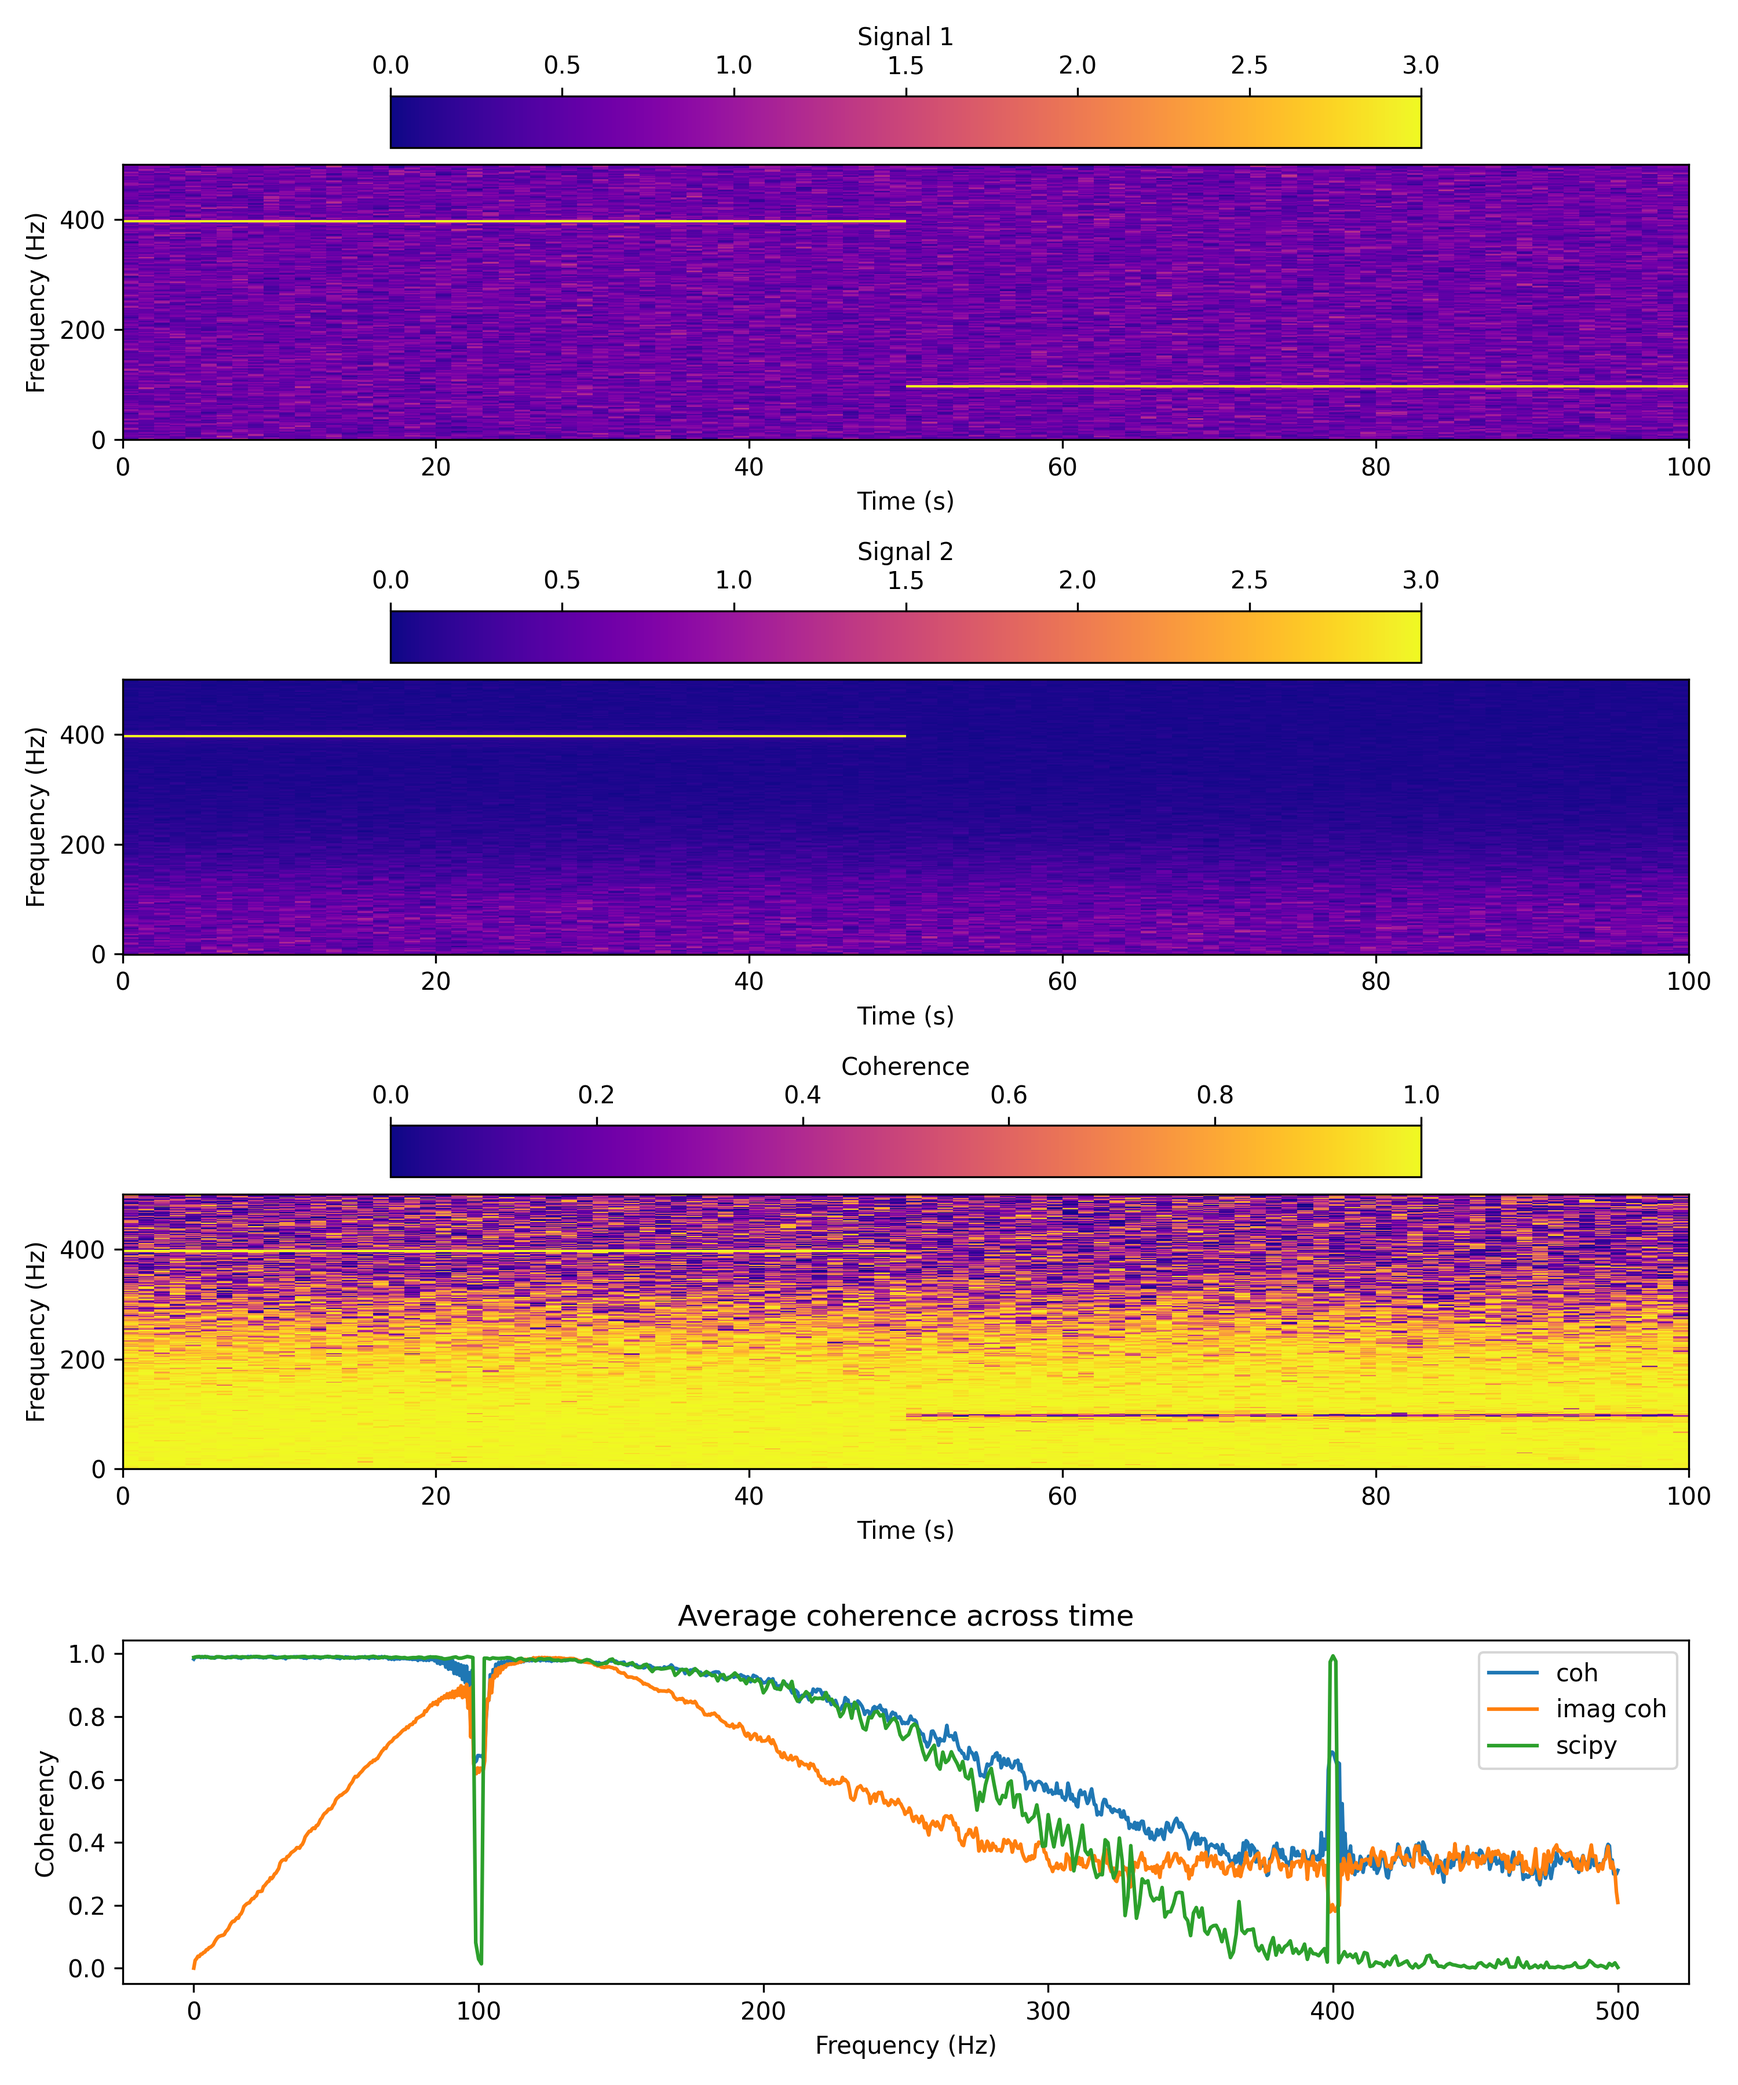
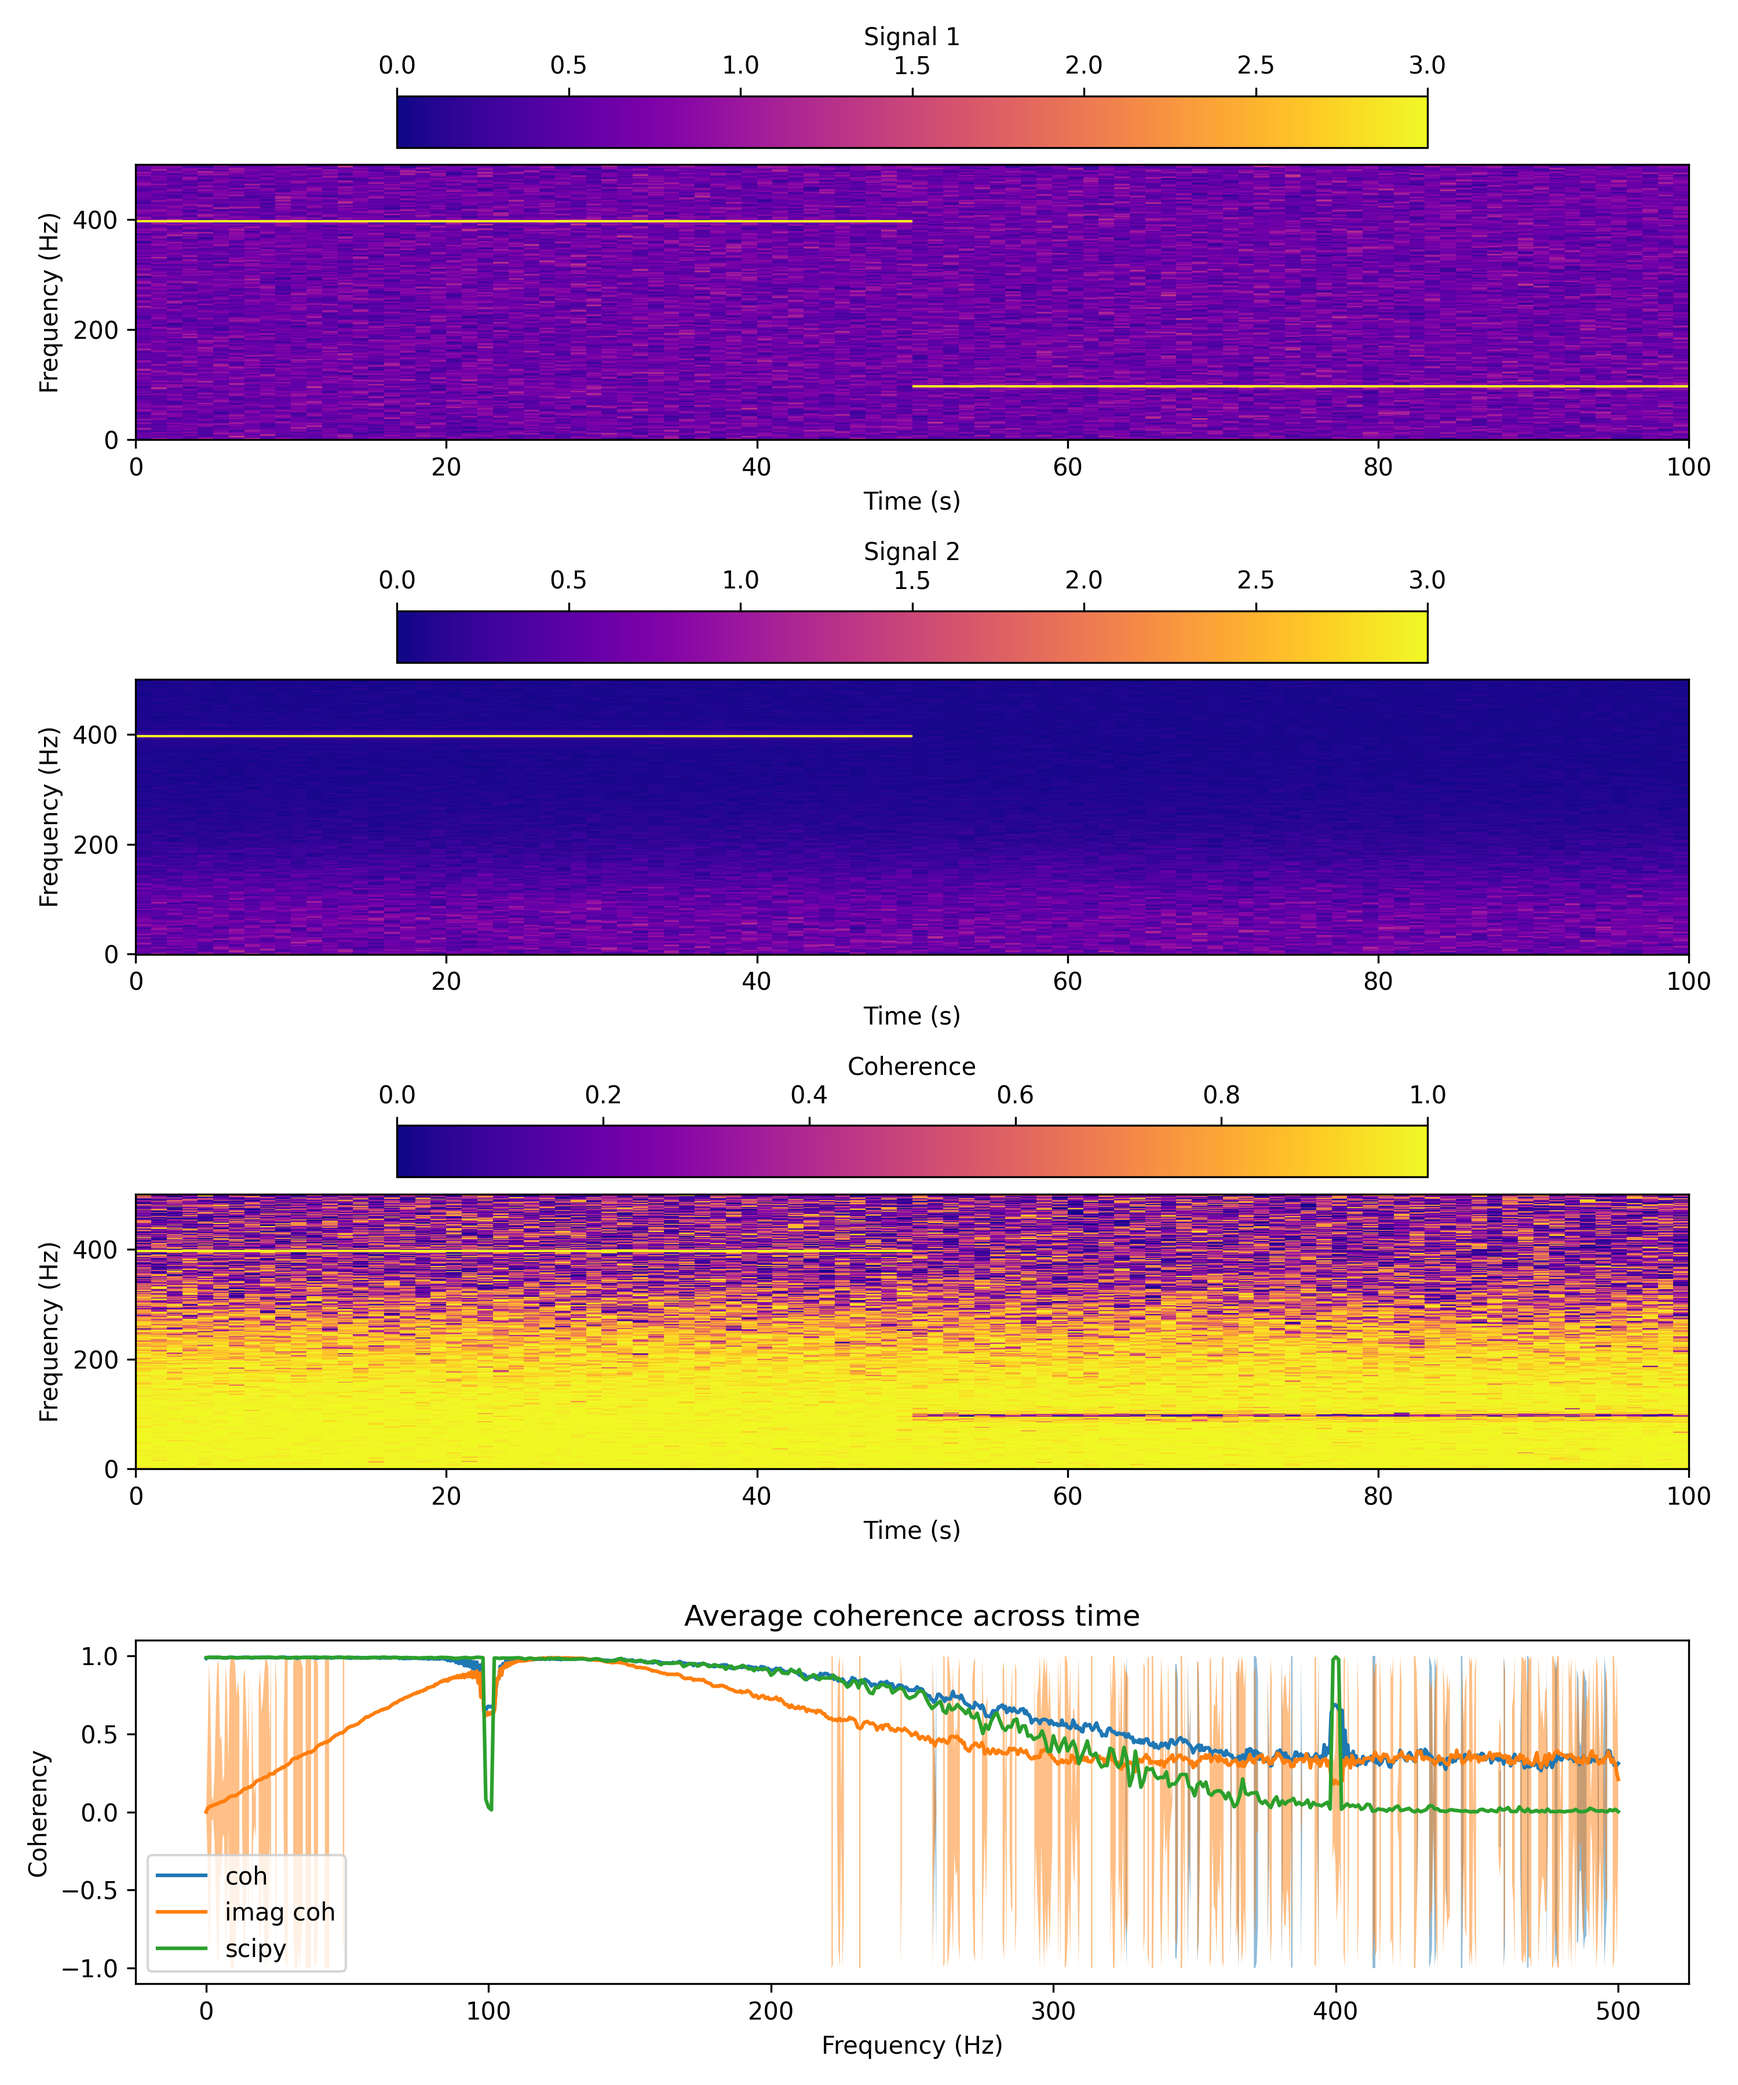
trying and failing to add error bars

diff --git a/aopy/analysis/base.py b/aopy/analysis/base.py
@@ -1256,7 +1256,7 @@ def interp_nans(x):
     return x
 
 def calc_mt_tfcoh(data, ch, n, p, k, fs, step, fk=None, pad=2, ref=False, imaginary=False, 
-                dtype='float64', workers=None):
+                dtype='float64', errorbars=False, pval=0.05, workers=None):
     '''
     Computes moving window time-frequency coherence averaged across trials between selected channels.
     This is loosely based on pesaran lab code, modified to be more compatible with :func:`~aopy.analysis.calc_mt_tfr`.
@@ -1299,6 +1299,9 @@ def calc_mt_tfcoh(data, ch, n, p, k, fs, step, fk=None, pad=2, ref=False, imagin
             Default is False.
         imaginary (bool, optional): if True, compute imaginary coherence.
         dtype (str, optional): dtype of the output. Default 'float64'
+        errorbars (bool, optional): if True, compute errorbars for coherence using jackknife method.
+            Default False.
+        pval (float, optional): p-value for errorbars. Default 0.05.
         workers (int, optional): Number of workers argument to pass to scipy.fft.fft. 
             Default None. 
                        
@@ -1427,7 +1430,8 @@ def calc_mt_tfcoh(data, ch, n, p, k, fs, step, fk=None, pad=2, ref=False, imagin
     ch1 = ch[0]
     ch2 = ch[1]
         
-    coh = np.zeros((nwin,int(nfk[1]-nfk[0])), dtype=dtype)
+    coh = np.zeros((int(nfk[1]-nfk[0]),nwin), dtype=dtype)
+    coh_err = np.zeros((int(nfk[1]-nfk[0]),nwin,2), dtype=dtype)
     for win in range(nwin):
         if ref:
             mX = np.mean(data[dn*win:dn*win+win_size], axis=1, keepdims=True) # Mean across channels for that window
@@ -1455,12 +1459,41 @@ def calc_mt_tfcoh(data, ch, n, p, k, fs, step, fk=None, pad=2, ref=False, imagin
     
         # Coherence
         if imaginary:
-            coh[win,:] = np.abs(np.imag(S12/np.sqrt(S1*S2)))
+            coh[:,win] = np.abs(np.imag(S12/np.sqrt(S1*S2)))
         else:
-            coh[win,:] = np.abs(S12/np.sqrt(S1*S2))**2
+            coh[:,win] = np.abs(S12/np.sqrt(S1*S2))**2
+
+        # Estimate error bars using Jacknife (very slow)       
+        if errorbars: 
+            jcoh = np.zeros((int(nfk[1]-nfk[0]), ntr * k))
+            jXlsp = np.zeros((int(nfk[1]-nfk[0]), ntr * k))
+            jYlsp = np.zeros((int(nfk[1]-nfk[0]), ntr * k))
+            for ik in range(ntr * k):
+                indices = np.setdiff1d(np.arange(ntr * k), ik)
+                Xj1 = Xk1[:,indices]
+                Xj2 = Xk2[:,indices]
+                t1 = np.sum(Xj1*Xj1.conj(), axis=1)
+                t2 = np.sum(Xj2*Xj2.conj(), axis=1)
+                t12 = np.sum(Xk1*Xk2.conj(), axis=1)
+
+                # Use atanh variance stabilizing transformation for coherence
+                if imaginary:
+                    tcoh = np.abs(np.imag(t12/np.sqrt(t1*t2)))
+                else:
+                    tcoh = np.abs(t12/np.sqrt(t1*t2))**2
+                jcoh[:,ik] = np.arctanh(tcoh)
+                jXlsp[:,ik] = np.log(t1)
+                jYlsp[:,ik] = np.log(t2)
+
+            lsigXY = np.sqrt(ntr * k - 1) * np.std(jcoh, axis=1)
+            crit = scipy.stats.t.ppf(1 - pval / 2, ntr * k - 1) # Determine the scaling factor
+            coh_err[:,win,0] = np.tanh(np.arctanh(coh[:,win]) + crit * lsigXY)
+            coh_err[:,win,1] = np.tanh(np.arctanh(coh[:,win]) - crit * lsigXY)
             
-    coh = coh.T
     t = np.arange(nwin)*step + n/2 # Center of each window is time axis
+
+    if errorbars:
+        return f, t, coh, coh_err
     
     return f, t, coh
 

diff --git a/tests/test_analysis.py b/tests/test_analysis.py
@@ -1238,10 +1238,10 @@ class SpectrumTests(unittest.TestCase):
                                                               ref=False)
 
         # Calculate coherence
-        f, t, coh = aopy.analysis.calc_mt_tfcoh(signal_combined, [0,1], n, p, k, fs, step, fk=fk,
-                                                              ref=False)
-        f, t, coh_im = aopy.analysis.calc_mt_tfcoh(signal_combined, [0,1], n, p, k, fs, step, fk=fk,
-                                                              ref=False, imaginary=True)
+        f, t, coh, coh_err = aopy.analysis.calc_mt_tfcoh(signal_combined, [0,1], n, p, k, fs, step, fk=fk,
+                                                              ref=False, errorbars=True, pval=1e-2)
+        f, t, coh_im, coh_im_err = aopy.analysis.calc_mt_tfcoh(signal_combined, [0,1], n, p, k, fs, step, fk=fk,
+                                                              ref=False, errorbars=True, pval=1e-2, imaginary=True)
         
         # Calculate coherency from scipy
         f_scipy, coh_scipy = scipy.signal.coherence(signal1, signal2, fs=fs, nperseg=fs*n, noverlap=0, axis=0)
@@ -1265,13 +1265,15 @@ class SpectrumTests(unittest.TestCase):
 
         # Plot the average coherence across windows
         plt.subplot(4, 1, 4)
-        plt.plot(f, np.mean(coh, axis=1))
-        plt.plot(f, np.mean(coh_im, axis=1))
-        plt.plot(f_scipy, coh_scipy)
+        line1, = plt.plot(f, np.mean(coh, axis=1))
+        plt.fill_between(f, coh_err[:,0,0], coh_err[:,0,1], alpha=0.5)
+        line2, = plt.plot(f, np.mean(coh_im, axis=1))
+        plt.fill_between(f, coh_im_err[:,0,0], coh_im_err[:,0,1], alpha=0.5)
+        line3, = plt.plot(f_scipy, coh_scipy)
         plt.title('Average coherence across time')
         plt.xlabel('Frequency (Hz)')
         plt.ylabel('Coherency')
-        plt.legend(['coh', 'imag coh', 'scipy'])
+        plt.legend([line1, line2, line3], ['coh', 'imag coh', 'scipy'])
 
         plt.tight_layout()
         figname = 'coherency.png'
